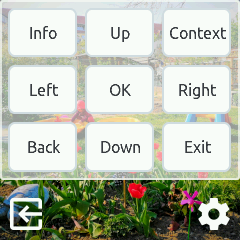
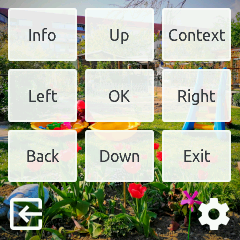
updated kodi remote control style

diff --git a/src/app/kodi_remote/kodi_remote_app_main.cpp b/src/app/kodi_remote/kodi_remote_app_main.cpp
@@ -50,6 +50,7 @@ lv_obj_t *kodi_remote_player_main_tile = NULL;
 lv_style_t kodi_remote_player_main_style;
 lv_obj_t *kodi_remote_control_main_tile = NULL;
 lv_style_t kodi_remote_control_main_style;
+lv_style_t kodi_remote_control_button_matrix_style;
 lv_style_t kodi_remote_control_button_style;
 
 lv_task_t * _kodi_remote_app_task;
@@ -156,17 +157,23 @@ void kodi_remote_app_main_setup( uint32_t tile_num ) {
     lv_obj_t * setup_btn_control = wf_add_setup_button( kodi_remote_control_main_tile, enter_kodi_remote_setup_event_cb, &kodi_remote_control_main_style );
     lv_obj_align(setup_btn_control, kodi_remote_control_main_tile, LV_ALIGN_IN_BOTTOM_RIGHT, -10, -10 );
 
+    lv_style_copy(&kodi_remote_control_button_matrix_style, ws_get_button_style());
+    lv_style_set_bg_opa(&kodi_remote_control_button_matrix_style, LV_STATE_DEFAULT, LV_OPA_TRANSP);
+    lv_style_set_border_width( &kodi_remote_control_button_matrix_style , LV_OBJ_PART_MAIN, 0 );
+    lv_style_set_radius( &kodi_remote_control_button_matrix_style , LV_OBJ_PART_MAIN, 0 );
+
     lv_style_copy(&kodi_remote_control_button_style, ws_get_button_style());
-    lv_style_set_bg_opa(&kodi_remote_control_button_style, LV_STATE_DEFAULT, LV_OPA_60);
+    lv_style_set_bg_opa(&kodi_remote_control_button_style, LV_STATE_DEFAULT, LV_OPA_90);
     lv_style_set_border_color( &kodi_remote_control_button_style, LV_STATE_DEFAULT, LV_COLOR_WHITE );
     lv_style_set_border_color( &kodi_remote_control_button_style, LV_STATE_CHECKED, LV_COLOR_SILVER );
     lv_style_set_border_color( &kodi_remote_control_button_style, LV_STATE_FOCUSED, LV_COLOR_SILVER );
     lv_style_set_border_color( &kodi_remote_control_button_style, LV_STATE_PRESSED, LV_COLOR_SILVER );
 
     lv_obj_t * button_matrix = lv_btnmatrix_create(kodi_remote_control_main_tile, NULL);
-	lv_obj_add_style(button_matrix, LV_STATE_DEFAULT, &kodi_remote_control_button_style);
+	lv_obj_add_style(button_matrix, LV_BTNMATRIX_PART_BG, &kodi_remote_control_button_matrix_style);
+	lv_obj_add_style(button_matrix, LV_BTNMATRIX_PART_BTN, &kodi_remote_control_button_style);
 	lv_obj_set_pos(button_matrix, 0, 0);
-	lv_obj_set_size(button_matrix, 240, 180);
+	lv_obj_set_size(button_matrix, 240, 190);
 	lv_btnmatrix_set_map(button_matrix, buttons);
 	lv_btnmatrix_set_one_check(button_matrix, false);
     lv_obj_set_event_cb(button_matrix, kodi_remote_button_event_cb);
